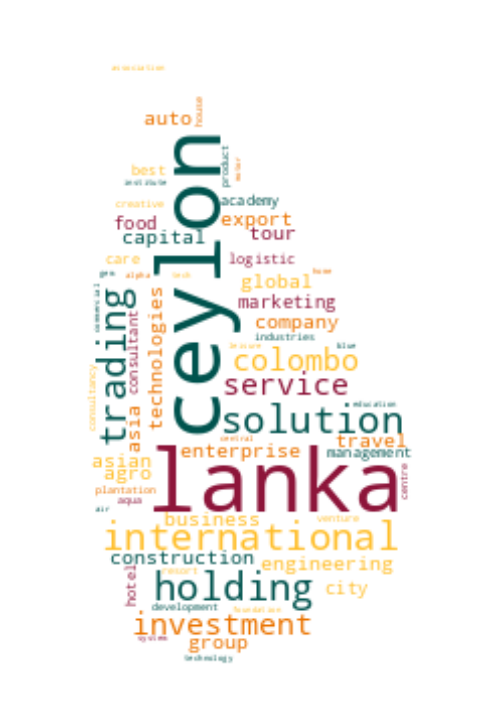
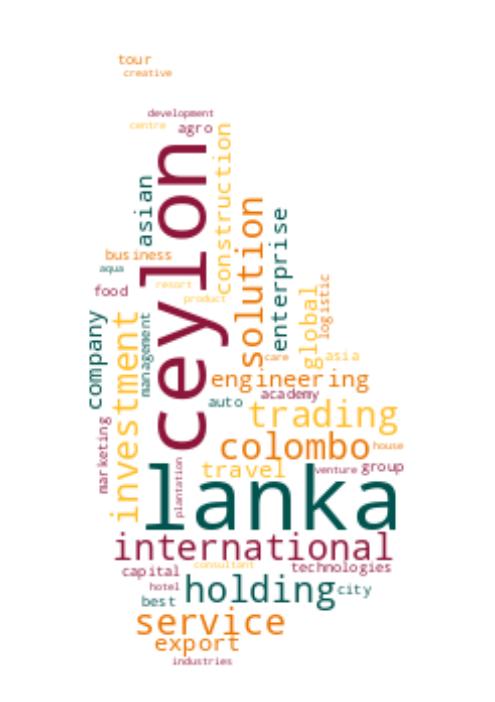
pipeline Mon Dec  4 02:30:25 UTC 2023

Changed region(s): [[0.1818, 0.1197, 0.8485, 0.9573], [0.2121, 0.0598, 0.3636, 0.1197]]

diff --git a/README.md b/README.md
@@ -4,40 +4,40 @@ Data Scraped from Registrar of Companies - Sri Lanka (https://eroc.drc.gov.lk)
 
 ![word-cloud](data/word_cloud.png)
 
-Scraped **23,310** Companies as of *2023-12-04 07:49:31*.
+Scraped **23,327** Companies as of *2023-12-04 08:00:24*.
 
 ## List of 30 Random Companies
 
-* AAYUSH HARI - PV00239078
-* ADD OUTDOOR ADVERTISING - PV3653
-* ALADDIN EDIBLE OILS & FATS - PV119983
-* ALDA NEAT - PV00267170
-* ALLEN FASTENERS - PV00235342
-* AMIN G.C. CONSTRUCTIONS - PV6721
-* ANIS AUTOCARE CENTRE - PV96068
-* AROMA HOLDINGS INTERNATIONAL - PV00230256
-* ARTISTS OF THOUGHT - PV67165
-* ASIAN CENTRE FOR LEASE EDUCATION - PV21579
-* ASIAN CUTTINGS LANKA - PV9035
-* ASIAN PEOPLES - PV00278362
-* AUTO AND METAL CRAFTS - PV763
-* AVLON DEVELOPMENT - PV64460
-* BANAGALA AYURVEDA OSU - PV00251709
-* BASHKARA TRUST HOLDINGS - PV00264879
-* BATTERY LAB - PV120795
-* BENTOTA BACKWATERS - PV72509
-* BLOCKCHAIN CENTRE - GL00275141
-* BRAND SLOGANCE - PV117275
-* CANDIT - PV00288630
-* CARAVENUE - PV120405
-* CARFIX - PV00266611
-* CEYLINE TRAVELS - PV7593
-* CHA FOOD & BEVERAGE LANKA - PV00207739
-* CHECKIN.LK - PV00225240
-* CHENNAI EXPRESS - PV118521
-* COMMUNITY RESOURCES DEVELOPMENT ORGANIZATION - GA2183
-* CONIFS GLOBAL - PV00214489
-* CONQUEST INTERNATIONAL - PV00217315
+* AFISOL - PV107184
+* AJOR SHIPPING - PV00206545
+* ALPHA DEVELOPMENT TEAM - PV87135
+* ALPHABETICAL INFORMATION TECHNOLOGY - PV00205149
+* AMADIO BEACH RESORT - PV00207478
+* AQUA MARINE INTERNATIONAL - PV00288485
+* ARMOR 7 SOUTH ASIA - PV00256149
+* ASIA PACIFIC PARTNERS - PV86907
+* ASIAN PEOPLE'S CREDIT AND INVESTMENT - PV00203303
+* ASMA CONSTRUCTION - PV00216816
+* ATHKAM LANKA - PV92784
+* ATLANTIC STAR - PV63921
+* AUTO XPERT TRADING - PV00252293
+* AVIKO - PV00215916
+* AZHA CERAMIC - PV00249412
+* BAY WAVES - PV00263564
+* BEAGLE - PV77512
+* BETTANS LANKA EXPORTS - PV4136
+* BRAND CENTRIC HOLDINGS - PV00219388
+* BRIGHT CONSULTANT SERVICES - PV00270831
+* BUSINESS FORMS - PB206
+* BYIT SOLUTIONS - PV00216345
+* CANWIN INTERNATIONAL - PV117836
+* CENTRAL PHARMACY & HOLDINGS - PV00256821
+* CHAMEC VENTURE  - PV87601
+* CODEBLOCKS - PV00267543
+* COLLEGE OF MANAGEMENT EDUCATION SOLAR POWER VENTURES - PV92880
+* COLOMBO HOLDINGS - PV00279297
+* CREATIVE FUSION NETWORKS - PV21565
+* CREEOO - PV88816
 
 ## List of Early Registrations
 
